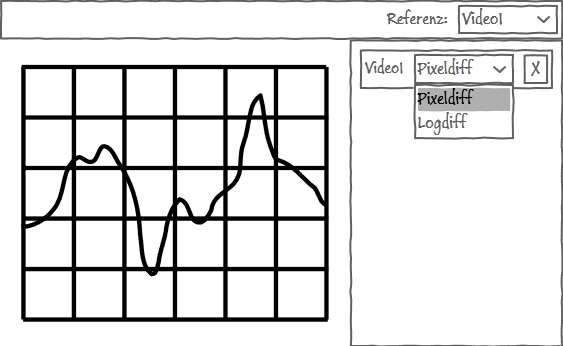
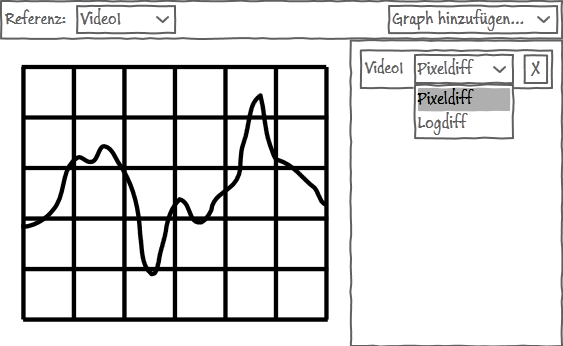
[wpfPrototyp] Final touches

diff --git a/Wpfprototype/WpfPrototypeScreens/MainScreen.xaml b/Wpfprototype/WpfPrototypeScreens/MainScreen.xaml
@@ -23,11 +23,133 @@
 	</UserControl.Resources>
 	<DockPanel x:Name="LayoutRoot" Background="White">
 		<ContentControl Template="{StaticResource ContentControl-Sketch}" DockPanel.Dock="Top">
-			<StackPanel Orientation="Horizontal" Margin="5" Height="40" HorizontalAlignment="Center">
-				<Button Margin="5" Style="{DynamicResource Button-Sketch}" Content="{StaticResource RewindIcon}"/>
-				<Button Margin="5" Style="{DynamicResource Button-Sketch}" Content="{StaticResource PlayIcon}"/>
-				<Button Margin="5" Style="{DynamicResource Button-Sketch}" Content="{StaticResource StopIcon}"/>
-			</StackPanel>
+			<DockPanel>
+				<StackPanel DockPanel.Dock="Left" Orientation="Horizontal" Margin="5" Height="40" HorizontalAlignment="Center">
+					<Button Margin="5" Style="{DynamicResource Button-Sketch}" Content="{StaticResource SlowDownIcon}"/>
+					<Button Margin="5" Style="{DynamicResource Button-Sketch}" Content="{StaticResource PlayIcon}"/>
+					<Button Margin="5" Style="{DynamicResource Button-Sketch}" Content="{StaticResource StopIcon}"/>
+					<Button Margin="5" Style="{DynamicResource Button-Sketch}" Content="{StaticResource SlowDownIcon}" RenderTransformOrigin="0.5,0.5">
+						<Button.RenderTransform>
+							<RotateTransform Angle="180"/>
+						</Button.RenderTransform>
+					</Button>
+				</StackPanel>
+				<Slider Width="200" HorizontalAlignment="Right" VerticalAlignment="Center" Style="{DynamicResource VideoSliderStyle}" Value="1">
+					<Slider.Resources>
+						<!--Sketch Thumb - Das Thumb-Element ist der ziehbare Teil eines Slider-Elements.-->
+						<Style x:Key="VideoThumbStyle" d:IsControlPart="True" TargetType="{x:Type Thumb}">
+							<Setter Property="SnapsToDevicePixels" Value="true"/>
+							<Setter Property="Height" Value="16"/>
+							<!-- <Setter Property="Width" Value="160"/> -->
+							<Setter Property="Foreground" Value="{StaticResource BaseBorder-Sketch}"/>
+							<Setter Property="BorderBrush" Value="{StaticResource BaseBorder-Sketch}"/>
+							<Setter Property="Background" Value="{StaticResource BaseBackground-Sketch}"/>
+							<Setter Property="Template">
+								<Setter.Value>
+									<ControlTemplate TargetType="{x:Type Thumb}">
+										<Grid>
+											<pc:SketchRectangleUC x:Name="SketchRectangleUC" BorderBrush="{TemplateBinding BorderBrush}" ExtensionLength="0" ExtensionVariance="0" SegmentLength="3" SegmentOffset="0.12" StrokeWidth="2" Foreground="{TemplateBinding Foreground}" Background="{TemplateBinding Background}"/>
+											<TextBlock Text="00:19" Margin="3,0" Style="{StaticResource TextBlock-Sketch}"/>
+										</Grid>
+										<ControlTemplate.Triggers>
+											<Trigger Property="IsFocused" Value="True">
+												<Setter Property="BorderBrush" TargetName="SketchRectangleUC" Value="{DynamicResource FocusedBorder-Sketch}"/>
+											</Trigger>
+											<Trigger Property="IsMouseOver" Value="True">
+												<Setter Property="Background" TargetName="SketchRectangleUC" Value="{DynamicResource MouseOverBackground-Sketch}"/>
+											</Trigger>
+											<Trigger Property="IsDragging" Value="True">
+												<Setter Property="MinHeight" TargetName="SketchRectangleUC" Value="20"/>
+												<Setter Property="Background" TargetName="SketchRectangleUC" Value="{DynamicResource BaseBorder-Sketch}"/>
+											</Trigger>
+											<Trigger Property="IsEnabled" Value="false">
+												<Setter Property="Background" TargetName="SketchRectangleUC" Value="{DynamicResource BaseBackground-Sketch}"/>
+												<Setter Property="BorderBrush" TargetName="SketchRectangleUC" Value="{DynamicResource DisabledBorder-Sketch}"/>
+												<Setter Property="SegmentVariance" TargetName="SketchRectangleUC" Value="0.1"/>
+												<Setter Property="SegmentOffset" TargetName="SketchRectangleUC" Value="0.15"/>
+											</Trigger>
+										</ControlTemplate.Triggers>
+									</ControlTemplate>
+								</Setter.Value>
+							</Setter>
+						</Style>
+
+						<!--Sketch Slider
+	Ähnlich wie das ScrollBar-Element wird von dieser Vorlage das Track-Element für das Layout des ziehbaren Thumb-Elements verwendet, das RepeatButton-Elemente für den Bildlauf nach oben und unten aufweist.
+	Für diese RepeatButton-Elemente werden die Vorlagen "Thumb-Sketch" und "SliderRepeatButton-Sketch" verwendet. -->
+						<Style x:Key="VideoSliderStyle" TargetType="{x:Type Slider}">
+							<Setter Property="Foreground" Value="{DynamicResource BaseForeground-Sketch}"/>
+							<Setter Property="BorderBrush" Value="{StaticResource BaseBorder-Sketch}"/>
+							<Setter Property="Background" Value="{StaticResource BaseBackground-Sketch}"/>
+							<Setter Property="Template">
+								<Setter.Value>
+									<ControlTemplate TargetType="{x:Type Slider}">
+										<Grid x:Name="GridRoot">
+											<Grid.RowDefinitions>
+												<RowDefinition Height="Auto"/>
+												<RowDefinition Height="Auto" MinHeight="{TemplateBinding MinHeight}"/>
+												<RowDefinition Height="Auto"/>
+											</Grid.RowDefinitions>
+
+											<Grid Margin="0,0,0,0" VerticalAlignment="Bottom" Height="19" Grid.Row="1">
+												<pc:SketchRectangleUC x:Name="SketchRectangleUC" Margin="4,6,4,6" BorderBrush="{TemplateBinding BorderBrush}" Background="{TemplateBinding Background}" StrokeWidth="2" Foreground="{TemplateBinding Foreground}" FocusVisualStyle="{DynamicResource FocusControl-Sketch}" SegmentLength="8" SegmentOffset="0.1" SegmentVariance="0.1"/>
+											</Grid>
+
+											<!-- Mit dem TickBar-Element werden die Teilstriche für das Slider-Element angezeigt. -->
+											<TickBar Visibility="Collapsed" x:Name="TopTick" Height="4" SnapsToDevicePixels="True" Placement="Top" Fill="{TemplateBinding Foreground}"/>
+
+											<!-- Mit dem Track-Element wird das Layout für die RepeatButton-Elemente und das Thumb-Element festgelegt. -->
+											<Track Grid.Row="1" x:Name="PART_Track">
+												<Track.Thumb>
+													<Thumb Style="{DynamicResource VideoThumbStyle}" Foreground="{TemplateBinding Foreground}" Background="{TemplateBinding Background}" BorderBrush="{TemplateBinding BorderBrush}" MinHeight="20"/>
+												</Track.Thumb>
+												<Track.IncreaseRepeatButton>
+													<RepeatButton Style="{StaticResource SliderRepeatButton-Sketch}"  Foreground="{TemplateBinding Foreground}" Background="{TemplateBinding Background}" Command="Slider.IncreaseLarge"/>
+													<!-- dies ist mit einer Alphamaske belegt, sodass es interaktiv ist, das darunter liegende Track-Element jedoch sichtbar bleibt-->
+												</Track.IncreaseRepeatButton>
+												<Track.DecreaseRepeatButton>
+													<RepeatButton Style="{StaticResource SliderRepeatButton-Sketch}" Foreground="{TemplateBinding Foreground}" Background="{TemplateBinding Background}" Command="Slider.DecreaseLarge"/>
+												</Track.DecreaseRepeatButton>
+											</Track>
+
+											<TickBar Visibility="Collapsed" Grid.Row="2" x:Name="BottomTick" Height="4" SnapsToDevicePixels="True" Placement="Bottom" Fill="{TemplateBinding Foreground}"/>
+										</Grid>
+										<ControlTemplate.Triggers>
+											<Trigger Property="TickPlacement" Value="TopLeft">
+												<Setter Property="Visibility" Value="Visible" TargetName="TopTick"/>
+											</Trigger>
+											<Trigger Property="TickPlacement" Value="BottomRight">
+												<Setter Property="Visibility" Value="Visible" TargetName="BottomTick"/>
+											</Trigger>
+											<Trigger Property="TickPlacement" Value="Both">
+												<Setter Property="Visibility" Value="Visible" TargetName="TopTick"/>
+												<Setter Property="Visibility" Value="Visible" TargetName="BottomTick"/>
+											</Trigger>
+											<Trigger Property="IsEnabled" Value="false">
+												<Setter Property="Background" TargetName="SketchRectangleUC" Value="{DynamicResource BaseBackground-Sketch}"/>
+												<Setter Property="BorderBrush" TargetName="SketchRectangleUC" Value="{DynamicResource DisabledBorder-Sketch}"/>
+											</Trigger>
+
+											<!-- Verwenden Sie eine Drehung, um ein vertikales Slider-Element anhand der Standardhorizontalen zu erstellen. -->
+											<Trigger Property="Orientation" Value="Vertical">
+												<Setter Property="LayoutTransform" TargetName="GridRoot">
+													<Setter.Value>
+														<RotateTransform Angle="-90"/>
+													</Setter.Value>
+												</Setter>
+												<!-- Das Track-Element dreht sich basierend auf der Ausrichtung selbst. Es muss deshalb zurückgedreht werden. -->
+												<Setter TargetName="PART_Track" Property="Orientation" Value="Horizontal"/>
+											</Trigger>
+
+										</ControlTemplate.Triggers>
+									</ControlTemplate>
+								</Setter.Value>
+							</Setter>
+						</Style>
+
+					</Slider.Resources>
+				</Slider>
+			</DockPanel>
 		</ContentControl>
 		<ListBox Style="{DynamicResource ListBox-Sketch}" DockPanel.Dock="Bottom" ItemsPanel="{DynamicResource ItemsPanelTemplate}">
 			<ListBox.Resources>
@@ -50,28 +172,30 @@
 			<ContentPresenter Content="{StaticResource MergeAverageIcon}"/>
 			<ContentPresenter Content="{StaticResource RgbSplitIcon}"/>
 		</ListBox>
-		<Canvas>
-			<HeaderedContentControl Header="{StaticResource BlurIcon}" Width="60" Canvas.Left="230" Canvas.Top="48" Template="{StaticResource NodeTemplate}">
-				<StackPanel>
-					<Slider Margin="0,10,0,0" Style="{DynamicResource Slider-Sketch}" TickPlacement="BottomRight" Value="3" />
-					<TextBlock Style="{DynamicResource BasicTextBlock-Sketch}" Text="Radius" FontStyle="Italic" />
-				</StackPanel>
-			</HeaderedContentControl>
-			<HeaderedContentControl Header="{StaticResource FileIcon}" Template="{StaticResource NodeTemplate}" Width="100" Canvas.Left="33" Canvas.Top="131">
-				<DockPanel>
-					<Button DockPanel.Dock="Right" Style="{DynamicResource Button-Sketch}">...</Button>
-					<TextBlock Style="{DynamicResource BasicTextBlock-Sketch}" Text="C:\ka.yuv" />
-				</DockPanel>
-			</HeaderedContentControl>
-			<HeaderedContentControl Header="{StaticResource EyeIcon}" Template="{StaticResource NodeTemplate}" Width="100" Canvas.Left="383" Canvas.Top="101">
-				<StackPanel>
-					<Button Margin="5,5,5,5" Style="{DynamicResource Button-Sketch}">
-						<TextBlock Style="{DynamicResource BasicTextBlock-Sketch}">Display</TextBlock>
-					</Button>
-				</StackPanel>
-			</HeaderedContentControl>
-			<Path Height="85" Canvas.Left="131" Stretch="Fill" Stroke="Black" Canvas.Top="74.04" Width="100" Data="m 0,1 C 0.5,1 0.5,0 1,0"/>
-			<Path Height="58" Canvas.Left="288" Stretch="Fill" Stroke="Black" Canvas.Top="74" Width="97" Data="m 0,0 C 0.5,0 0.5,1 1,1"/>
-		</Canvas>
+		<ScrollViewer Style="{DynamicResource ScrollViewer-Sketch}" HorizontalScrollBarVisibility="Visible">
+			<Canvas Height="248" Width="600">
+				<HeaderedContentControl Header="{StaticResource BlurIcon}" Width="60" Canvas.Left="230" Canvas.Top="48" Template="{StaticResource NodeTemplate}">
+					<StackPanel>
+						<Slider Margin="0,10,0,0" Style="{DynamicResource Slider-Sketch}" TickPlacement="BottomRight" Value="3" />
+						<TextBlock Style="{DynamicResource BasicTextBlock-Sketch}" Text="Radius" FontStyle="Italic" />
+					</StackPanel>
+				</HeaderedContentControl>
+				<HeaderedContentControl Header="{StaticResource FileIcon}" Template="{StaticResource NodeTemplate}" Width="100" Canvas.Left="33" Canvas.Top="131">
+					<DockPanel>
+						<Button DockPanel.Dock="Right" Style="{DynamicResource Button-Sketch}" Content="..."/>
+						<TextBlock Style="{DynamicResource BasicTextBlock-Sketch}" Text="C:\ka.yuv" />
+					</DockPanel>
+				</HeaderedContentControl>
+				<HeaderedContentControl Header="{StaticResource EyeIcon}" Template="{StaticResource NodeTemplate}" Width="100" Canvas.Left="383" Canvas.Top="101">
+					<StackPanel>
+						<Button Margin="5,5,5,5" Style="{DynamicResource Button-Sketch}">
+							<TextBlock Style="{DynamicResource BasicTextBlock-Sketch}"><Run Text="Display"/></TextBlock>
+						</Button>
+					</StackPanel>
+				</HeaderedContentControl>
+				<Path Height="85" Canvas.Left="131" Stretch="Fill" Stroke="Black" Canvas.Top="74.04" Width="100" Data="m 0,1 C 0.5,1 0.5,0 1,0"/>
+				<Path Height="58" Canvas.Left="288" Stretch="Fill" Stroke="Black" Canvas.Top="74" Width="97" Data="m 0,0 C 0.5,0 0.5,1 1,1"/>
+			</Canvas>
+		</ScrollViewer>
 	</DockPanel>
 </UserControl>

diff --git a/Wpfprototype/WpfPrototypeScreens/DiagramScreen.xaml b/Wpfprototype/WpfPrototypeScreens/DiagramScreen.xaml
@@ -10,13 +10,20 @@ Background="White"
 	</UserControl.Resources>
 	<DockPanel>
 		<ContentControl Template="{StaticResource ContentControl-Sketch}" DockPanel.Dock="Top">
-			<StackPanel Orientation="Horizontal" HorizontalAlignment="Right">
-				<TextBlock Margin="5" FontSize="18" VerticalAlignment="Center" Style="{StaticResource TextBlock-Sketch}">Referenz:</TextBlock>
-				<ComboBox Margin="5" Style="{StaticResource ComboBox-Sketch}" Width="100" SelectedIndex="0">
+			<DockPanel>
+				<StackPanel DockPanel.Dock="Left" Orientation="Horizontal" HorizontalAlignment="Right">
+					<TextBlock Margin="5" FontSize="18" VerticalAlignment="Center" Style="{StaticResource TextBlock-Sketch}">Referenz:</TextBlock>
+					<ComboBox Margin="5" Style="{StaticResource ComboBox-Sketch}" Width="100" SelectedIndex="0">
+						<ComboBoxItem>Video1</ComboBoxItem>
+						<ComboBoxItem>Video2</ComboBoxItem>
+					</ComboBox>
+				</StackPanel>
+				<ComboBox HorizontalAlignment="Right" Margin="5" Style="{StaticResource ComboBox-Sketch}" Width="170" SelectedIndex="0">
+					<ComboBoxItem>Graph hinzufügen...</ComboBoxItem>
 					<ComboBoxItem>Video1</ComboBoxItem>
 					<ComboBoxItem>Video2</ComboBoxItem>
 				</ComboBox>
-			</StackPanel>
+			</DockPanel>
 		</ContentControl>
 		<ContentControl DockPanel.Dock="Right" Template="{StaticResource ContentControl-Sketch}">
 			<StackPanel Margin="10">
@@ -24,7 +31,8 @@ Background="White"
 					<StackPanel Orientation="Horizontal">
 						<TextBlock Margin="5" FontSize="18" VerticalAlignment="Center" Style="{StaticResource TextBlock-Sketch}">Video1</TextBlock>
 						<ComboBox  Margin="5" Style="{StaticResource ComboBox-Sketch}" Width="100" SelectedIndex="0">
-							<ComboBoxItem>Pixeldifferenz</ComboBoxItem>
+							<ComboBoxItem Content="Pixeldiff"/>
+							<ComboBoxItem Content="Logdiff"/>
 						</ComboBox>
 						<Button Margin="5" Style="{StaticResource Button-Sketch}">X</Button>
 					</StackPanel>

diff --git a/Wpfprototype/Icons.xaml b/Wpfprototype/Icons.xaml
@@ -400,7 +400,7 @@
 	<Viewbox Width="20" Height="20" x:Key="StopIcon">
 		<Rectangle Width="1" Height="1" Fill="Black"/>
 	</Viewbox>
-	<Viewbox x:Key="RewindIcon" Height="20">
-		<Path Fill="Black" Data="M 0,0 V 1 h 0.3 V 0 h -0.3 m 0.8,0 l -0.5,0.5 l 0.5,0.5 V 0 m 0.5,0 l -0.5,0.5 l 0.5,0.5 V 0"/>
+	<Viewbox x:Key="SlowDownIcon" Height="20">
+		<Path Fill="Black" Data="M 0.5,0 l -0.5,0.5 l 0.5,0.5 V 0 m 0.5,0 l -0.5,0.5 l 0.5,0.5 V 0"/>
 	</Viewbox>
 </ResourceDictionary>
